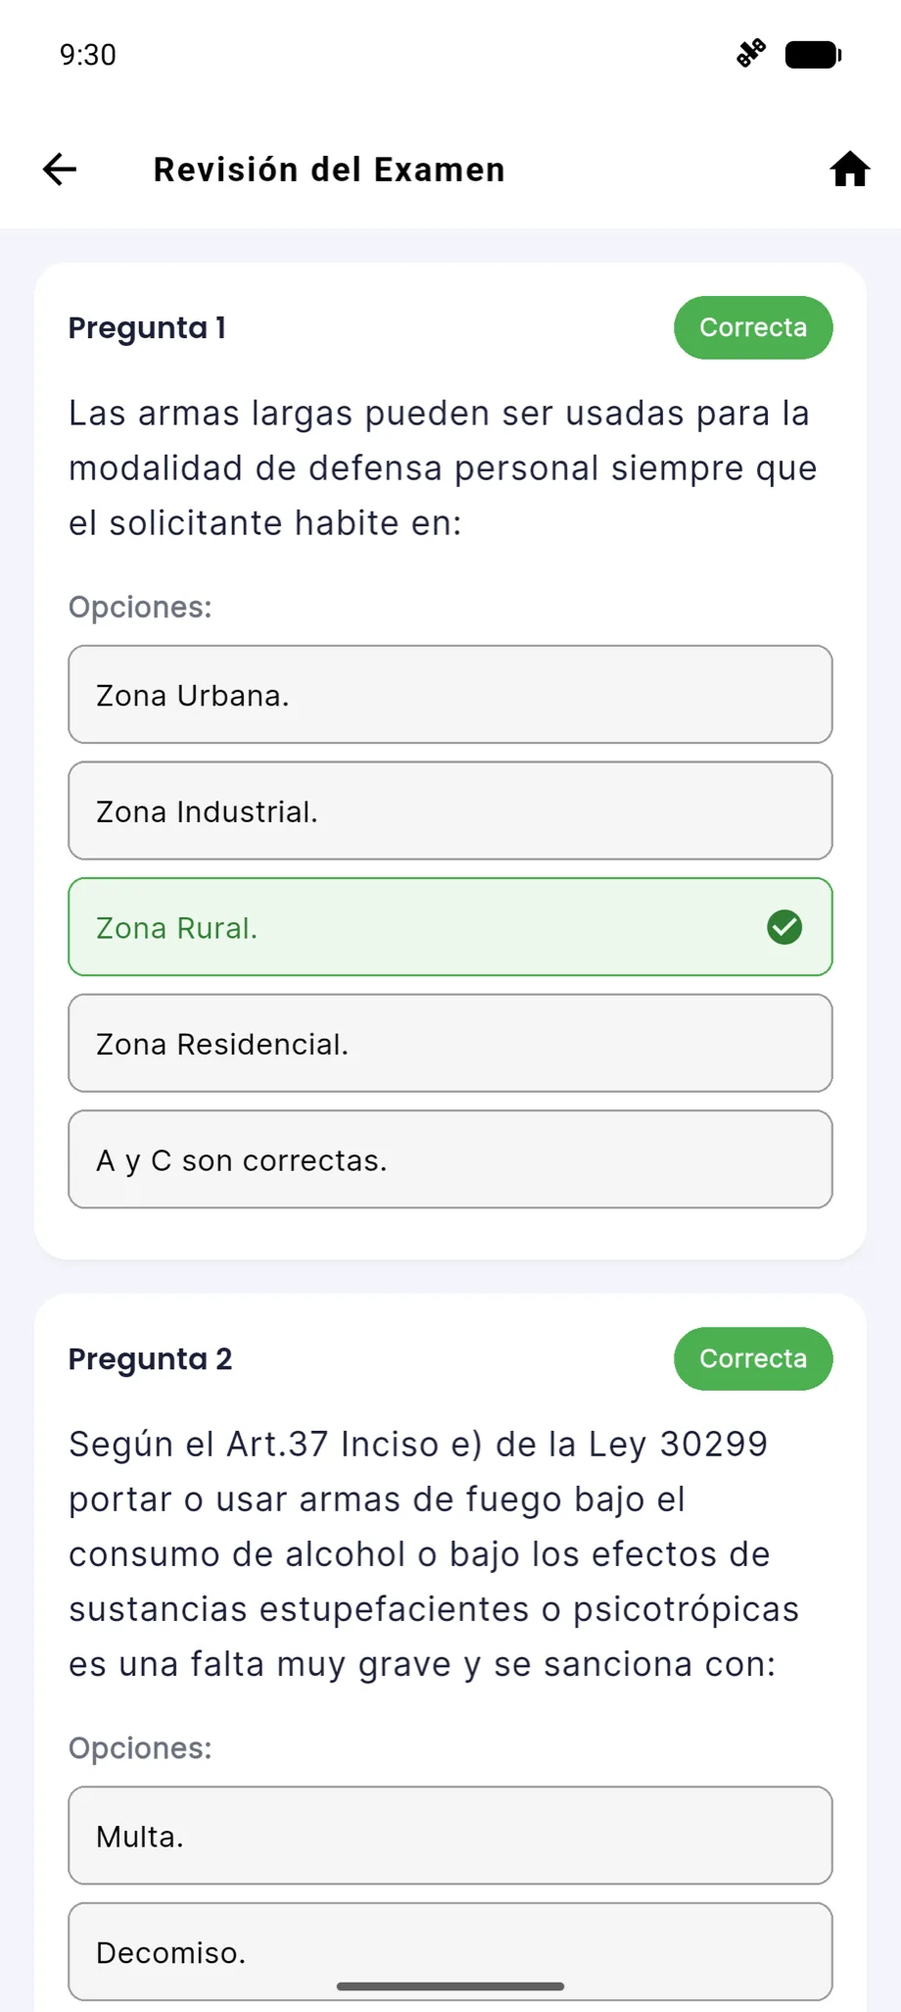
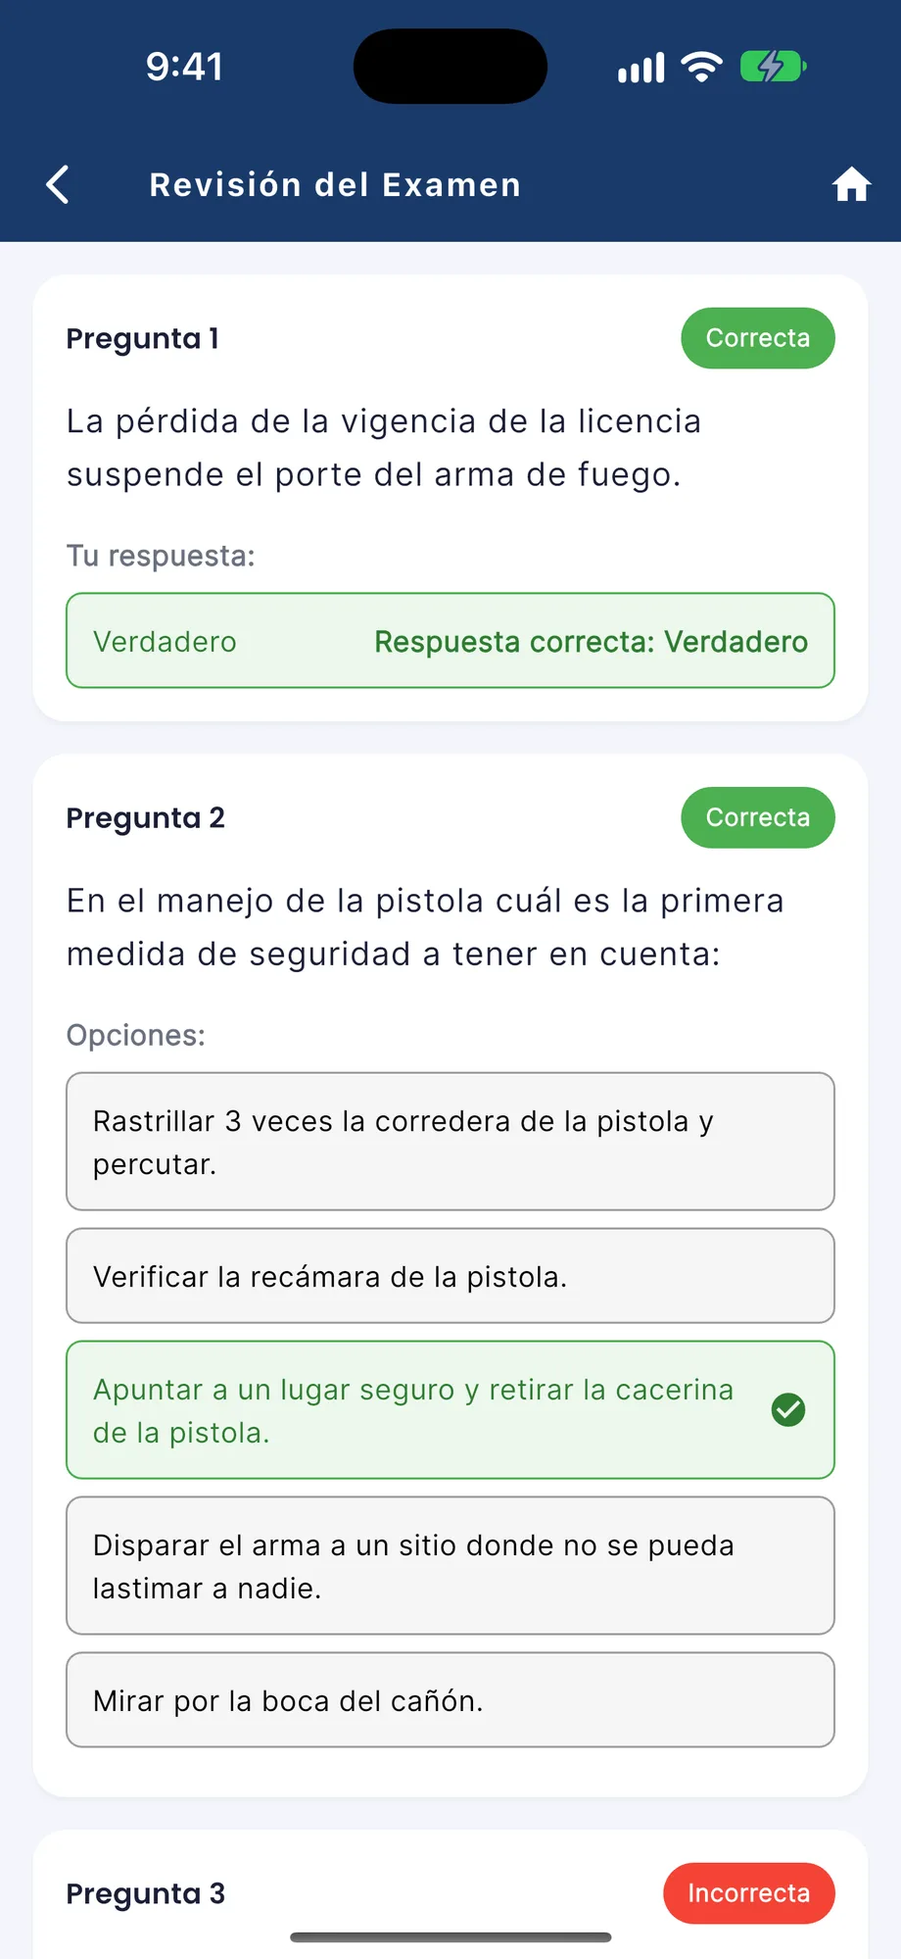
feat(apps): mark ApruebaSUCAMEC and Cazadores Perú as in testing
- Add a testing status ("En pruebas" / "In testing") shown on the
  badges, the home page, the app directory and llms.txt.
- ApruebaSUCAMEC: real logo and favicon instead of the letter, current
  iOS screenshots, the full practice run is now all 100 questions, and
  iPhone, iPad and Android tablets in the platform copy.
- Cazadores Perú: mention the optional short ad before sharing a poster,
  as the privacy policy already does, and iPhone and Android only.
- News entries now say both apps are in testing, dated November 2026.

Changed region(s): [[0.0, 0.0, 1.0, 0.9305], [0.0609, 0.8684, 0.9435, 1.0], [0.3957, 0.3102, 0.9435, 0.3722]]

diff --git a/src/content/apps.ts b/src/content/apps.ts
@@ -7,9 +7,10 @@ export type AppSlug = "animequote" | "mtcquiz" | "apruebasucamec" | "peruxhunter
 /**
  * available       → published in a store
  * in-development  → being built, has a waitlist
+ * testing         → in TestFlight / Play testing, not public in the stores yet
  * pending         → status not confirmed yet, has a waitlist
  */
-export type AppStatus = "available" | "in-development" | "pending";
+export type AppStatus = "available" | "testing" | "in-development" | "pending";
 
 export type StoreLink = {
   store: "google-play" | "app-store";
@@ -195,10 +196,12 @@ export const apps: AppEntry[] = [
   {
     slug: "apruebasucamec",
     name: "ApruebaSUCAMEC",
-    status: "in-development",
-    // Texts and screenshots are real (Android build of the app). Only the icon is a letter until the logo is ready.
+    // 1.0.0 (1) in TestFlight; the Android AAB goes to Play internal testing (2026-11-23). No public test link yet.
+    // Package name and bundle id: com.nekodojo.sucamecquiz.
+    status: "testing",
+    // Texts, logo and screenshots are real (iOS build of the app).
     provisional: false,
-    icon: { glyph: "A" },
+    icon: { src: "/apps/apruebasucamec/logo.png" },
     preview: { canvas: "#F4F6FB", ink: "#1A1F36", muted: "#4A5272", accent: "#1A3A6B", fontVar: "--font-poppins" },
     tagline: {
       es: "Practica el examen de SUCAMEC y llega listo a tu licencia de armas",
@@ -215,7 +218,7 @@ export const apps: AppEntry[] = [
     screenshot: {
       src: "/apps/apruebasucamec/home.webp",
       width: 920,
-      height: 2053,
+      height: 1999,
       alt: {
         es: "Pantalla de inicio de ApruebaSUCAMEC con los modos de estudio y los tipos de licencia L1 a L6",
         en: "ApruebaSUCAMEC home screen with the study modes and the L1 to L6 license types",
@@ -229,14 +232,14 @@ export const apps: AppEntry[] = [
       faq: {
         es: [
           { q: "¿ApruebaSUCAMEC es una app oficial?", a: "No. Es una app independiente de Nekodojo y no está afiliada a la SUCAMEC ni a ninguna entidad del Estado peruano." },
-          { q: "¿Cuántas preguntas tiene?", a: "100 preguntas tipo examen: 65 de opción múltiple y 35 de verdadero o falso. En cada intento salen en un orden distinto." },
+          { q: "¿Cuántas preguntas tiene?", a: "100 preguntas tipo examen: 65 de opción múltiple y 35 de verdadero o falso. El simulacro tipo examen y el personalizado eligen preguntas al azar en cada intento." },
           { q: "¿Cómo funciona el simulacro tipo examen?", a: "Te da 5 preguntas al azar y 10 minutos para responderlas. Al terminar ves tu porcentaje y si aprobaste (70 % o más). Durante este simulacro no se muestran anuncios." },
           { q: "¿Necesito internet o una cuenta?", a: "No necesitas cuenta. Las preguntas y el manual vienen dentro de la app, así que estudias sin conexión. Solo los anuncios y las páginas legales usan internet." },
           { q: "¿Es gratis?", a: "Sí, con anuncios: un banner en los modos de práctica. Antes de cargar anuncios, la app te pide tu consentimiento cuando corresponde." },
         ],
         en: [
           { q: "Is ApruebaSUCAMEC an official app?", a: "No. It's an independent Nekodojo app and isn't affiliated with SUCAMEC or any Peruvian government body." },
-          { q: "How many questions does it have?", a: "100 exam-style questions: 65 multiple choice and 35 true or false. They come in a different order on every attempt." },
+          { q: "How many questions does it have?", a: "100 exam-style questions: 65 multiple choice and 35 true or false. The exam simulation and the custom practice pick random questions on every attempt." },
           { q: "How does the exam simulation work?", a: "It gives you 5 random questions and 10 minutes to answer them. When you finish, you see your score and whether you passed (70% or more). No ads are shown during this simulation." },
           { q: "Do I need internet or an account?", a: "You don't need an account. The questions and the manual are inside the app, so you can study offline. Only the ads and the legal pages use the internet." },
           { q: "Is it free?", a: "Yes, with ads: a banner in the practice modes. Before loading ads, the app asks for your consent where it applies." },
@@ -259,11 +262,11 @@ export const apps: AppEntry[] = [
   {
     slug: "peruxhunter",
     name: "Cazadores Perú",
-    // Built and submitted, not live yet: on 2026-11-18 both store links below returned 404.
-    // When they open, set status "available" and paste the links in `stores`:
+    // In testing since 2026-11-18 (TestFlight, iPhone only; Play internal testing). On 2026-11-23 both store
+    // links below still returned 404. When they open, set status "available" and paste the links in `stores`:
     //   Google Play https://play.google.com/store/apps/details?id=com.nekodojo.peruxhunter
     //   App Store   https://apps.apple.com/app/id6836196201
-    status: "in-development",
+    status: "testing",
     // Texts are the app's own; screenshots are real (iOS) with faces, names and IDs pixelated.
     provisional: false,
     icon: { src: "/apps/peruxhunter/logo.png" },
@@ -307,7 +310,7 @@ export const apps: AppEntry[] = [
           { q: "¿La app envía o guarda mis reportes?", a: "No. Para reportar, la app marca la línea gratuita 0-800-40-007 (o el 1818) o abre tu app de correo con el texto listo para que lo envíes tú." },
           { q: "¿Quién paga la recompensa?", a: "El Estado, después de validar la información. La app no interviene en ese proceso ni puede asegurar que proceda." },
           { q: "¿Qué significan las clases S, A, B y C?", a: "Son un sello de la app que agrupa a los buscados según el monto de la recompensa. No son una calificación oficial." },
-          { q: "¿Es gratis?", a: "Sí. La app es gratuita y muestra anuncios, que ayudan a mantener el proyecto." },
+          { q: "¿Es gratis?", a: "Sí. La app es gratuita y muestra anuncios, que ayudan a mantener el proyecto: banners en algunas pantallas y, antes de compartir un cartel, un anuncio corto que puedes aceptar. La pantalla de reporte nunca tiene anuncios." },
         ],
         en: [
           { q: "Is Cazadores Perú an official app?", a: "No. It's an independent Nekodojo app. It isn't affiliated with Peru's Ministry of the Interior or the Peruvian National Police." },
@@ -315,7 +318,7 @@ export const apps: AppEntry[] = [
           { q: "Does the app send or store my reports?", a: "No. To report, the app dials the free 0-800-40-007 hotline (or 1818) or opens your email app with the text ready for you to send." },
           { q: "Who pays the reward?", a: "The Peruvian State, after it validates the information. The app takes no part in that process and can't promise a reward." },
           { q: "What do the S, A, B and C classes mean?", a: "They're the app's own badge, grouping wanted people by reward amount. They aren't an official rating." },
-          { q: "Is it free?", a: "Yes. The app is free and shows ads, which help keep the project going." },
+          { q: "Is it free?", a: "Yes. The app is free and shows ads, which help keep the project going: banners on some screens and, before you share a poster, a short ad you can accept. The report screen never has ads." },
         ],
       },
       dataDeletion: {
@@ -420,16 +423,20 @@ export function getApp(slug: AppSlug): AppEntry {
 export const news: { app: AppSlug; text: L; date?: string }[] = [
   {
     app: "peruxhunter",
+    // TestFlight build 2.0.0 (2) and Play internal testing, both on 2026-11-18.
+    date: "2026-11",
     text: {
-      es: "Cazadores Perú está en camino: los buscados del Programa de Recompensas como carteles, en Android e iOS.",
-      en: "Cazadores Perú is on its way: the people wanted by Peru's Rewards Program as posters, on Android and iOS.",
+      es: "Cazadores Perú entró en pruebas en iPhone y Android: los buscados del Programa de Recompensas como carteles.",
+      en: "Cazadores Perú is now in testing on iPhone and Android: the people wanted by Peru's Rewards Program as posters.",
     },
   },
   {
     app: "apruebasucamec",
+    // Build 1.0.0 (1) in TestFlight on 2026-11-23.
+    date: "2026-11",
     text: {
-      es: "ApruebaSUCAMEC está en desarrollo: practica el examen teórico de SUCAMEC en Android e iOS.",
-      en: "ApruebaSUCAMEC is in development: practice for Peru's SUCAMEC written test on Android and iOS.",
+      es: "ApruebaSUCAMEC entró en pruebas en iOS y Android: practica el examen teórico de SUCAMEC.",
+      en: "ApruebaSUCAMEC is now in testing on iOS and Android: practice for Peru's SUCAMEC written test.",
     },
   },
   {

diff --git a/src/apps/apruebasucamec/content.ts b/src/apps/apruebasucamec/content.ts
@@ -3,7 +3,8 @@ import type { Locale } from "@/i18n/config";
 /*
  * ApruebaSUCAMEC landing copy. Facts (100 questions: 65 multiple choice + 35 true/false,
  * modes, 70 % pass mark, ads only outside the exam simulation, local history) were checked
- * against the app's code in November 2026. Screenshots come from the Android build.
+ * against the app's code in November 2026. Screenshots come from the iOS build 1.0.0 (manual screen left
+ * out: it shows a pistol with its brand).
  */
 
 type Shot = { src: string; alt: string };
@@ -53,12 +54,12 @@ const es = {
     lead: "Desde repasar todo el banco hasta simular el examen con el reloj en contra.",
     items: [
       { title: "Simular examen SUCAMEC", meta: "5 preguntas · 10 minutos", body: "Preguntas al azar y cronómetro, pensado como el examen real. Aquí no hay anuncios." },
-      { title: "Simulacro completo", meta: "20 preguntas · sin límite", body: "Una práctica más larga, a tu ritmo, para cubrir más temas en cada intento." },
+      { title: "Simulacro completo", meta: "100 preguntas · sin límite", body: "Todo el banco en orden y a tu ritmo, para repasar cada tema sin el reloj." },
       { title: "Simulacro personalizado", meta: "De 1 a 100 preguntas", body: "Tú eliges cuántas preguntas quieres responder hoy." },
       { title: "Ver banco completo", meta: "100 preguntas", body: "Todas las preguntas con la respuesta correcta a la vista, para estudiar antes de practicar." },
     ],
-    bankNote: "65 de opción múltiple y 35 de verdadero o falso, en un orden distinto en cada intento.",
-    shot: { src: shots.exam, alt: "Simulacro de examen con cronómetro de 10 minutos, pregunta 1 de 5 y la alternativa C marcada" } as Shot,
+    bankNote: "65 de opción múltiple y 35 de verdadero o falso. El simulacro tipo examen y el personalizado las eligen al azar.",
+    shot: { src: shots.exam, alt: "Simulacro de examen con el cronómetro en 09:44, pregunta 1 de 5 de verdadero o falso y Verdadero marcado" } as Shot,
   },
   results: {
     title: "Sabes cómo vas en cada intento",
@@ -68,8 +69,8 @@ const es = {
       "Intenta de nuevo o copia tu resultado para compartirlo.",
       "El historial guarda tus intentos en el teléfono, incluso los que dejaste a medias.",
     ],
-    resultShot: { src: shots.result, alt: "Resultado final del simulacro: 80 %, aprobado, 4 correctas y 1 incorrecta de 5" } as Shot,
-    reviewShot: { src: shots.review, alt: "Revisión del examen con la pregunta 1 respondida correctamente y la alternativa Zona Rural marcada en verde" } as Shot,
+    resultShot: { src: shots.result, alt: "Resultado final del simulacro: 100 %, aprobado, 5 correctas de 5" } as Shot,
+    reviewShot: { src: shots.review, alt: "Revisión del examen: las preguntas 1 y 2 correctas, con la respuesta correcta marcada en verde, y la 3 incorrecta" } as Shot,
   },
   licenses: {
     title: "Los tipos de licencia, a la mano",
@@ -83,15 +84,15 @@ const es = {
       { title: "Tamaño de letra", body: "Ajústalo con vista previa y se aplica en toda la app." },
       { title: "Sin cuenta", body: "No te pedimos registro. Tu historial se queda en tu teléfono." },
       { title: "Sin internet", body: "Las preguntas y el manual vienen dentro de la app." },
-      { title: "Android e iOS", body: "La misma app en los dos sistemas, pensada para usarse en vertical." },
+      { title: "Teléfono y tablet", body: "La misma app en iPhone, iPad y Android, también en tablets." },
     ],
   },
   pricing: {
     title: "Gratis, con anuncios",
     body: "Todo el contenido es gratuito. La app muestra un banner en los modos de práctica y te pide tu consentimiento antes de cargar anuncios cuando corresponde. El simulacro tipo examen no tiene anuncios.",
   },
-  downloadTitle: "Muy pronto en tu teléfono",
-  downloadBody: "Estamos terminando la app. Los enlaces de descarga aparecerán aquí en cuanto esté publicada.",
+  downloadTitle: "En pruebas en iOS y Android",
+  downloadBody: "Estamos probando la app en iPhone y Android antes de publicarla. Los enlaces de descarga aparecerán aquí en cuanto esté publicada en las tiendas.",
 };
 
 export type SucamecContent = typeof es;
@@ -124,12 +125,12 @@ const en: SucamecContent = {
     lead: "From reviewing the whole bank to simulating the test against the clock.",
     items: [
       { title: "SUCAMEC exam simulation", meta: "5 questions · 10 minutes", body: "Random questions and a timer, designed like the real test. No ads here." },
-      { title: "Full practice exam", meta: "20 questions · no time limit", body: "A longer practice at your own pace, to cover more topics in each attempt." },
+      { title: "Full practice exam", meta: "100 questions · no time limit", body: "The whole bank in order and at your own pace, to cover every topic without the clock." },
       { title: "Custom practice exam", meta: "1 to 100 questions", body: "You choose how many questions to answer today." },
       { title: "Full question bank", meta: "100 questions", body: "Every question with the right answer shown, to study before you practice." },
     ],
-    bankNote: "65 multiple choice and 35 true or false, in a different order on every attempt.",
-    shot: { src: shots.exam, alt: "Exam simulation with a 10-minute timer, question 1 of 5 and option C selected" },
+    bankNote: "65 multiple choice and 35 true or false. The exam simulation and the custom practice pick them at random.",
+    shot: { src: shots.exam, alt: "Exam simulation with the timer at 09:44, true-or-false question 1 of 5 and True selected" },
   },
   results: {
     title: "Know where you stand after every attempt",
@@ -139,8 +140,8 @@ const en: SucamecContent = {
       "Try again or copy your result to share it.",
       "The history keeps your attempts on your phone, even the ones you left unfinished.",
     ],
-    resultShot: { src: shots.result, alt: "Final result of the simulation: 80%, passed, 4 right and 1 wrong out of 5" },
-    reviewShot: { src: shots.review, alt: "Exam review with question 1 answered correctly and the Zona Rural option marked in green" },
+    resultShot: { src: shots.result, alt: "Final result of the simulation: 100%, passed, 5 right out of 5" },
+    reviewShot: { src: shots.review, alt: "Exam review: questions 1 and 2 right, with the correct answer marked in green, and question 3 wrong" },
   },
   licenses: {
     title: "License types at hand",
@@ -154,15 +155,15 @@ const en: SucamecContent = {
       { title: "Font size", body: "Adjust it with a live preview and it applies across the whole app." },
       { title: "No account", body: "No sign-up. Your history stays on your phone." },
       { title: "No internet", body: "The questions and the manual come inside the app." },
-      { title: "Android and iOS", body: "The same app on both systems, designed for portrait use." },
+      { title: "Phone and tablet", body: "The same app on iPhone, iPad and Android, tablets included." },
     ],
   },
   pricing: {
     title: "Free, with ads",
     body: "All the content is free. The app shows a banner in the practice modes and asks for your consent before loading ads where it applies. The exam simulation has no ads.",
   },
-  downloadTitle: "Coming soon to your phone",
-  downloadBody: "We're finishing the app. Download links will show up here as soon as it's published.",
+  downloadTitle: "In testing on iOS and Android",
+  downloadBody: "We're testing the app on iPhone and Android before releasing it. Download links will show up here as soon as it's out in the stores.",
 };
 
 export const sucamecContent: Record<Locale, SucamecContent> = { es, en };

diff --git a/src/apps/peruxhunter/content.ts b/src/apps/peruxhunter/content.ts
@@ -99,7 +99,7 @@ const es = {
     title: "Y además",
     items: [
       { key: "report", title: "Reportar a tu manera", body: "Llama al 0-800-40-007 o al 1818, o escribe: la app arma un correo con lugar, hora y detalles. No envía ni guarda nada; lo envías tú." },
-      { key: "share", title: "Comparte el cartel", body: "Envía el cartel como imagen por WhatsApp o redes, con la línea gratuita y el aviso de que no es oficial." },
+      { key: "share", title: "Comparte el cartel", body: "Envía el cartel como imagen por WhatsApp o redes, con la línea gratuita y el aviso de que no es oficial. Antes puede pedirte ver un anuncio corto." },
       { key: "saved", title: "Mis carteles, sin conexión", body: "Guarda una ficha con el marcador y su cartel queda a mano en tu teléfono, incluso sin internet. El 0-800 funciona sin datos." },
       { key: "a11y", title: "Claro, oscuro y letra grande", body: "Sigue el tema de tu teléfono o elige uno. Respeta la letra grande del sistema sin cortar el contenido." },
     ],
@@ -142,8 +142,8 @@ const es = {
     ],
     supportNote: "La app es gratuita y muestra anuncios, que ayudan a mantenerla.",
   },
-  downloadTitle: "Descarga Cazadores Perú",
-  downloadBody: "Gratis para Android e iOS. Los enlaces aparecerán aquí cuando la app esté publicada en las tiendas.",
+  downloadTitle: "En pruebas en iPhone y Android",
+  downloadBody: "Gratis para iPhone y Android. Estamos probando la app antes de publicarla; los enlaces aparecerán aquí cuando esté en las tiendas.",
   notice: {
     title: "App no oficial",
     body: "Cazadores Perú es una app independiente de Nekodojo. No está afiliada al Ministerio del Interior ni a la Policía Nacional del Perú. Muestra datos públicos del Programa de Recompensas, que pueden cambiar sin aviso.",
@@ -214,7 +214,7 @@ const en: Content = {
     title: "And also",
     items: [
       { key: "report", title: "Report your way", body: "Call 0-800-40-007 or 1818, or write: the app drafts an email with place, time and details. It sends and stores nothing; you send it." },
-      { key: "share", title: "Share the poster", body: "Send the poster as an image on WhatsApp or social media, with the free hotline and a note that it's unofficial." },
+      { key: "share", title: "Share the poster", body: "Send the poster as an image on WhatsApp or social media, with the free hotline and a note that it's unofficial. It may first ask you to watch a short ad." },
       { key: "saved", title: "My posters, offline", body: "Save a record with the bookmark and its poster stays on your phone, even without internet. The 0-800 line works without data." },
       { key: "a11y", title: "Light, dark and large text", body: "Follows your phone's theme or pick one. Supports the system's large text without cutting content off." },
     ],
@@ -257,8 +257,8 @@ const en: Content = {
     ],
     supportNote: "The app is free and shows ads, which help keep it running.",
   },
-  downloadTitle: "Get Cazadores Perú",
-  downloadBody: "Free for Android and iOS. The links will show up here once the app is live in the stores.",
+  downloadTitle: "In testing on iPhone and Android",
+  downloadBody: "Free for iPhone and Android. We're testing the app before releasing it; the links will show up here once it's in the stores.",
   notice: {
     title: "Unofficial app",
     body: "Cazadores Perú is an independent Nekodojo app. It isn't affiliated with Peru's Ministry of the Interior or the Peruvian National Police. It shows public data from the Rewards Program, which may change without notice.",

diff --git a/src/i18n/dictionaries/en.ts b/src/i18n/dictionaries/en.ts
@@ -15,7 +15,7 @@ const en: Dictionary = {
   languageSwitch: { label: "Español", short: "ES", hint: "View this page in Spanish" },
   theme: { toLight: "Switch to light theme", toDark: "Switch to dark theme" },
   breadcrumbs: { label: "Breadcrumb", apps: "Apps" },
-  status: { available: "Available", "in-development": "In development", pending: "To be confirmed" },
+  status: { available: "Available", testing: "In testing", "in-development": "In development", pending: "To be confirmed" },
   common: {
     provisional: "Placeholder content",
     conceptMockup: "Concept mockup",

diff --git a/src/i18n/dictionaries/es.ts b/src/i18n/dictionaries/es.ts
@@ -13,7 +13,7 @@ const es = {
   languageSwitch: { label: "English", short: "EN", hint: "Ver esta página en inglés" },
   theme: { toLight: "Cambiar a tema claro", toDark: "Cambiar a tema oscuro" },
   breadcrumbs: { label: "Ruta de navegación", apps: "Apps" },
-  status: { available: "Disponible", "in-development": "En desarrollo", pending: "Por confirmar" },
+  status: { available: "Disponible", testing: "En pruebas", "in-development": "En desarrollo", pending: "Por confirmar" },
   common: {
     provisional: "Contenido provisional",
     conceptMockup: "Mockup conceptual",

diff --git a/src/app/[locale]/(apps)/apps/apruebasucamec/page.tsx b/src/app/[locale]/(apps)/apps/apruebasucamec/page.tsx
@@ -13,7 +13,7 @@ import FaqList from "@/components/shared/FaqList";
 import StatusBadge from "@/components/shared/StatusBadge";
 
 const app = getApp("apruebasucamec");
-const SHOT = { width: 920, height: 2053 };
+const SHOT = { width: 920, height: 1999 };
 
 export async function generateMetadata({ params }: LocaleParams): Promise<Metadata> {
   const locale = await getLocale(params);

diff --git a/src/components/shared/StatusBadge.tsx b/src/components/shared/StatusBadge.tsx
@@ -3,6 +3,7 @@ import type { AppStatus } from "@/content/apps";
 // Theme tokens, so the dot stays visible on light and dark canvases.
 const tone: Record<AppStatus, string> = {
   available: "bg-ok",
+  testing: "bg-current", // the text colour: visible on any canvas, including accent-coloured heroes
   "in-development": "bg-warn",
   pending: "bg-muted",
 };
